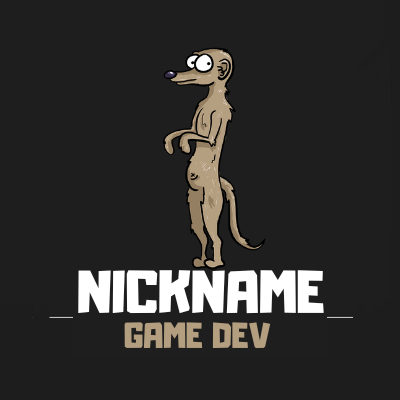
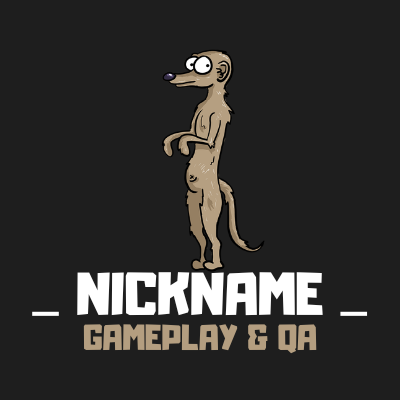
updated profile

Changed region(s): [[0.18, 0.12, 0.81, 0.9], [0.84, 0.78, 0.93, 0.81], [0.06, 0.78, 0.15, 0.81]]

diff --git a/index.html b/index.html
@@ -72,48 +72,55 @@
                 <img src="assets/img/photo_profil_jerome.png" alt="Photo réelle Jérôme Cornu" class="profile-real" />
             </div>            
             <h3>Jérôme Cornu</h3>
-            <p><em>- Technical Game Designer -</em></p>
+            <p><em>- Game Creator -</em></p>
         </div>
 
-        <!-- Right Section: Description and Skills -->
-        <div class="about-description">
-    <article>
-        Je suis un <em>Technical Game Designer</em> passionné par la création de systèmes de gameplay et d’expériences joueur engageantes. À travers mes études et mes projets au <em>Gaming Campus</em>, j’ai développé des compétences solides en game design ainsi qu’en implémentation technique, ce qui me permet de faire le lien entre les idées de design et leur réalisation concrète en jeu.
-    </article>
-    <article>
-        J’apprécie particulièrement le prototypage de mécaniques, la conception de systèmes de gameplay et l’itération sur l’expérience joueur directement dans les moteurs de jeu. Je travaille principalement avec Unity (C#) et Unreal Engine (Blueprints/C++), où je transforme des idées de design en fonctionnalités jouables tout en gardant un code propre, modulaire et facile à faire évoluer.
-    </article>
+    <!-- Right Section: Description and Skills -->
+    <div class="about-description">
+<article>
+    Je suis un profil polyvalent en développement de jeux vidéo, à l’intersection du <em>technical game design</em>, <em>QA testing</em>, et de la <em>programmation gameplay</em>. Je travaille sur les systèmes de jeu dans leur globalité, avec une attention particulière portée à la qualité et à l’expérience joueur.
+</article>
+<article>
+    Mon expérience couvre l’ensemble du cycle de vie des fonctionnalités de gameplay : de leur conception et implémentation jusqu’à leur test, leur debug et leur itération. Cette approche me permet d’analyser les problèmes sous plusieurs angles — intention de design, comportement des systèmes et contraintes techniques — et d’identifier efficacement les incohérences tout en proposant des améliorations concrètes.
+</article>
+<article>
+    Je travaille directement dans les moteurs Unity (C#) et Unreal Engine (Blueprints/C++), que ce soit pour prototyper des mécaniques, valider des comportements de gameplay ou investiguer des bugs. J’apprécie particulièrement travailler sur des systèmes comme l’IA, le combat, la progression ou le feedback joueur, avec une forte attention au détail et à la cohérence globale.
+</article>
 
-    <br />
-    <div class="social-links">
-        <a href="https://www.linkedin.com/in/jeromecornu-game" target="_blank">
-            <img src="assets/img/LinkedInLogo.png" alt="LinkedIn" />
-            <span>LinkedIn</span>
-        </a>
-        <a href="https://github.com/JeromeCornu" target="_blank">
-            <img src="assets/img/Github.png" alt="GitHub" />
-            <span>GitHub</span>
-        </a>
-        <a href="assets/files/CV CORNU Jérôme - Francais.pdf" download>
-            <img src="assets/img/PortfolioLogo.png" alt="Télécharger le CV" />
-            <span>Télécharger le CV</span>
-        </a>
-    </div>
-    <br />
+<br />
+<div class="social-links">
+    <a href="https://www.linkedin.com/in/jeromecornu-game" target="_blank">
+        <img src="assets/img/LinkedInLogo.png" alt="LinkedIn" />
+        <span>LinkedIn</span>
+    </a>
+    <a href="https://github.com/JeromeCornu" target="_blank">
+        <img src="assets/img/Github.png" alt="GitHub" />
+        <span>GitHub</span>
+    </a>
+    <!--
+    <a href="assets/files/CV CORNU Jérôme - Francais.pdf" download>
+        <img src="assets/img/PortfolioLogo.png" alt="Télécharger le CV" />
+        <span>Télécharger le CV</span>
+    </a>
+    -->
+</div>
+<br />
 
-    <h3>Compétences clés</h3>
-    <ul class="skills-list">
-        <li><strong>Systèmes de gameplay :</strong> conception et implémentation de mécaniques, d’aptitudes et d’interactions de gameplay.</li>
-        <li><strong>Prototypage :</strong> création rapide de prototypes jouables pour tester et itérer sur des idées de gameplay.</li>
-        <li><strong>IA de gameplay :</strong> implémentation de comportements ennemis et de systèmes d’interactions avec les PNJ.</li>
-        <li><strong>Systèmes procéduraux :</strong> utilisation de seeds et de génération procédurale pour créer du contenu rejouable.</li>
-        <li><strong>Level Design :</strong> conception d’espaces guidant le joueur et soutenant le gameplay.</li>
-        <li><strong>Équilibrage de systèmes :</strong> ajustement de paramètres de gameplay et de systèmes de progression.</li>
-        <li><strong>Collaboration technique :</strong> lien entre intention de design et implémentation technique.</li>
-    </ul>
+<h3>Compétences clés</h3>
+<ul class="skills-list">
+    <li><strong>Systèmes de gameplay :</strong> conception, implémentation, test et itération de mécaniques et interactions.</li>
+    <li><strong>QA & Tests :</strong> tests fonctionnels, reproduction de bugs et rédaction de tickets clairs et structurés.</li>
+    <li><strong>Debug :</strong> identification et analyse de problèmes sur le gameplay, l’IA, l’UI et les interactions.</li>
+    <li><strong>Prototypage :</strong> itération rapide de concepts directement en moteur.</li>
+    <li><strong>IA & Systems Design :</strong> conception de comportements, équilibrage et amélioration de l’expérience joueur.</li>
+    <li><strong>Moteurs :</strong> Unity (C#) et Unreal Engine (Blueprints/C++).</li>
+    <li><strong>Collaboration :</strong> travail transverse avec design, programmation et production.</li>
+</ul>
+
 </div>
     </div>
 </section>
+
 <!-------------------------- fin about me -------------------------->
 
 
@@ -605,7 +612,7 @@
         <li><a href="#qa-showcase" class="footer-link line">Démonstration QA</a></li>
         <li><a href="#portfolio" class="footer-link line">Tous mes projets</a></li>
         <li><a href="#about-me" class="footer-link line">À propos de moi</a></li>
-        <li><a href="assets/files/CV CORNU Jérôme - Francais.pdf" download class="footer-link line">Télécharger le CV</a></li>
+        <!--<li><a href="assets/files/CV CORNU Jérôme - Francais.pdf" download class="footer-link line">Télécharger le CV</a></li>-->
     </ul>
 </div>
           

diff --git a/page/en/index_eng.html b/page/en/index_eng.html
@@ -72,48 +72,55 @@
                 <img src="../../assets/img/photo_profil_jerome.png" alt="Real Photo of Jérôme Cornu" class="profile-real" />
             </div>            
             <h3>Jérôme Cornu</h3>
-            <p><em>- Technical Game Designer -</em></p>
+            <p><em>- Game Creator -</em></p>
         </div>
 
-        <!-- Right Section: Description and Skills -->
-        <div class="about-description">
-    <article>
-        I am a <em>Technical Game Designer</em> passionate about creating engaging gameplay systems and player experiences. Through my studies and projects at <em>Gaming Campus</em>, I have developed strong skills in both game design and technical implementation, allowing me to bridge the gap between creative ideas and working gameplay.
-    </article>
-    <article>
-        I particularly enjoy prototyping mechanics, designing gameplay systems, and iterating on player experience directly in-engine. I am comfortable working with Unity (C#) and Unreal Engine (Blueprints/C++), where I focus on turning design ideas into playable features while keeping code clean, modular, and easy to iterate on.
-    </article>
+    <!-- Right Section: Description and Skills -->
+    <div class="about-description">
+<article>
+    I am a game developer with a multidisciplinary background in <em>technical game design</em>, <em>QA testing</em>, and <em>gameplay programming</em>. I work at the intersection of these roles, focusing on building, analyzing, and improving gameplay systems to deliver high-quality player experiences.
+</article>
+<article>
+    My experience covers the full lifecycle of gameplay features: from design and implementation to testing, debugging, and iteration. This allows me to approach problems from multiple angles — understanding player intent, system behavior, and technical constraints — and to identify issues efficiently while contributing to clear and actionable improvements.
+</article>
+<article>
+    I am comfortable working directly in-engine using Unity (C#) and Unreal Engine (Blueprints/C++), whether it is to prototype mechanics, validate gameplay behaviors, or investigate bugs. I particularly enjoy working on gameplay systems such as AI, combat, progression, and player feedback, with a strong attention to detail and overall coherence.
+</article>
 
-    <br />
-    <div class="social-links">
-        <a href="https://www.linkedin.com/in/jeromecornu-game" target="_blank">
-            <img src="../../assets/img/LinkedInLogo.png" alt="LinkedIn" />
-            <span>LinkedIn</span>
-        </a>
-        <a href="https://github.com/JeromeCornu" target="_blank">
-            <img src="../../assets/img/Github.png" alt="GitHub" />
-            <span>GitHub</span>
-        </a>
-        <a href="../../assets/files/CV CORNU Jérôme - English.pdf" download>
-            <img src="../../assets/img/PortfolioLogo.png" alt="Download CV" />
-            <span>Download CV</span>
-        </a>
-    </div>
-    <br />
+<br />
+<div class="social-links">
+    <a href="https://www.linkedin.com/in/jeromecornu-game" target="_blank">
+        <img src="../../assets/img/LinkedInLogo.png" alt="LinkedIn" />
+        <span>LinkedIn</span>
+    </a>
+    <a href="https://github.com/JeromeCornu" target="_blank">
+        <img src="../../assets/img/Github.png" alt="GitHub" />
+        <span>GitHub</span>
+    </a>
+    <!--
+    <a href="../../assets/files/CV CORNU Jérôme - English.pdf" download>
+        <img src="../../assets/img/PortfolioLogo.png" alt="Download CV" />
+        <span>Download CV</span>
+    </a>
+    -->
+</div>
+<br />
 
-    <h3>Key Skills</h3>
-    <ul class="skills-list">
-        <li><strong>Gameplay Systems:</strong> Design and implementation of mechanics, abilities, and gameplay interactions.</li>
-        <li><strong>Prototyping:</strong> Rapid iteration of gameplay ideas directly in-engine.</li>
-        <li><strong>AI Behaviours:</strong> Implementation of enemy logic and interactive NPC systems.</li>
-        <li><strong>Procedural Systems:</strong> Use of seeds and generation techniques to create replayable content.</li>
-        <li><strong>Level Design:</strong> Designing spaces that guide player movement and gameplay flow.</li>
-        <li><strong>Systems Balancing:</strong> Tuning gameplay parameters and progression systems.</li>
-        <li><strong>Technical Collaboration:</strong> Bridging design intentions with technical implementation.</li>
-    </ul>
+<h3>Key Skills</h3>
+<ul class="skills-list">
+    <li><strong>Gameplay Systems:</strong> Design, implementation, testing, and iteration of mechanics and interactions.</li>
+    <li><strong>QA & Testing:</strong> Functional testing, bug reproduction, reporting, and gameplay analysis.</li>
+    <li><strong>Debugging:</strong> Identification and investigation of issues across gameplay, AI, UI, and interactions.</li>
+    <li><strong>Prototyping:</strong> Rapid iteration of ideas directly in-engine.</li>
+    <li><strong>AI & Systems Design:</strong> Behavior design, balancing, and player experience tuning.</li>
+    <li><strong>Engine Expertise:</strong> Unity (C#) and Unreal Engine (Blueprints/C++).</li>
+    <li><strong>Collaboration:</strong> Working across design, programming, and production with clear communication.</li>
+</ul>
+
 </div>
     </div>
 </section>
+
 <!-------------------------- End About Me -------------------------->
 
 
@@ -602,7 +609,7 @@
         <li><a href="#qa-showcase" class="footer-link line">QA Showcase</a></li>
         <li><a href="#portfolio" class="footer-link line">All Projects</a></li>
         <li><a href="#about-me" class="footer-link line">About Me</a></li>
-        <li><a href="../../assets/files/CV CORNU Jérôme - English.pdf" download class="footer-link line">Download CV</a></li>
+    <!--<li><a href="../../assets/files/CV CORNU Jérôme - English.pdf" download class="footer-link line">Download CV</a></li>-->
     </ul>
 </div>
 
